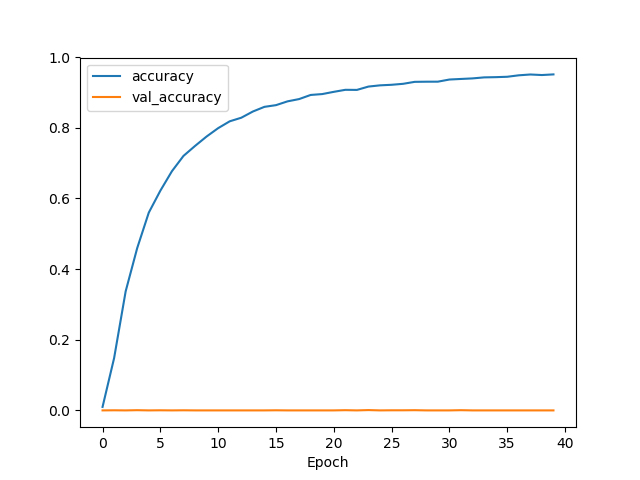
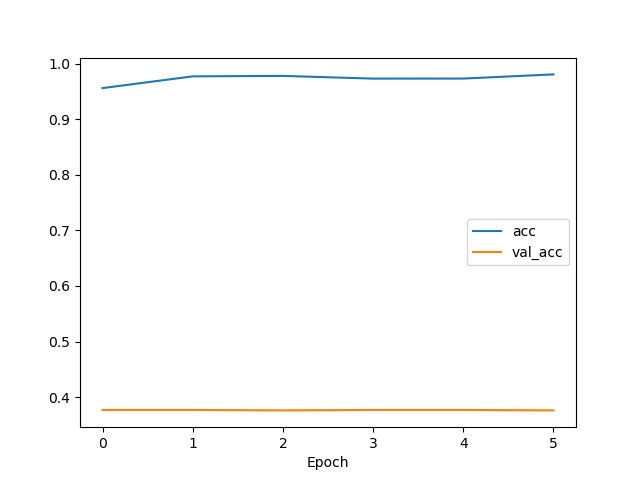
clean

diff --git a/AIModel/training.py b/AIModel/training.py
@@ -15,17 +15,18 @@ from keras.callbacks import EarlyStopping, ModelCheckpoint
 
 IMAGES_PATH = "../data/training/images/"
 AUGMENTATION_PATH = "../data/training/augmentation-images/"
-MODEL_VGG16 = "../data/training/model_vgg16.h5"
-HISTORY_VGG16 = "../data/training/model_vgg16_history"
-BOTTLENECK_VGG16 = "../data/training/bottleneck_vgg16.npy"
-CHECKPOINT_FILE = "../data/training/vgg16_checkpoint.h5"
+MODEL_VGG16 = "../data/training/model_vgg16_1.h5"
+HISTORY_VGG16 = "../data/training/model_vgg16_history_1"
+FC_HISTORY = "../data/training/fc_hist"
+BOTTLENECK_VGG16 = "../data/training/bottleneck_vgg16_1.npy"
+CHECKPOINT_FILE = "../data/training/vgg16_checkpoint_1.h5"
 CSV_RESTAURANTS = "../data/training/restaurants.csv"
-X_TRAIN_FILE = "../data/training/x_train.npy"
-Y_TRAIN_FILE = "../data/training/y_train.npy"
+X_TRAIN_FILE = "../data/training/x_train_1.npy"
+Y_TRAIN_FILE = "../data/training/y_train_1.npy"
 
-IMG_HEIGHT = 224 #320 #640
-IMG_WIDTH = 224 #160 #320
-MAX_IMAGES = 160
+IMG_HEIGHT = 112 #224 #320 #640
+IMG_WIDTH = 112 #224 #160 #320
+MAX_IMAGES = 800
 BATCH_SIZE = 16
 EPOCHS = 20
 
@@ -109,19 +110,11 @@ def getNumberOfRestaurants():
   return len(restaurantsIds)
 
 def create_training_data():
-  # restaurantspd = pd.read_csv(CSV_RESTAURANTS)
-  # restaurantspd = restaurantspd.reset_index()
-  # restaurantspd['Id'] = pd.to_numeric(restaurantspd['Id'], downcast='integer')
-  # restaurantspd['Label'] = restaurantspd['Id'].astype('category')
-  # restaurantspd = restaurantspd.set_index('Id')
-  # restaurantsDict = restaurantspd.to_dict()
-  # restaurantsLabels = restaurantsDict['Label']
   TOTAL_IMAGES = getTotalNumberofImages()
   restaurantsIds = [folder[1] for folder in os.walk(AUGMENTATION_PATH)]
   restaurantsIds = restaurantsIds[0]
   labelDict = {}
   print (TOTAL_IMAGES)
-  # totalInstances = len(restaurantsIds) * MAX_IMAGES
   x_train = np.ndarray((TOTAL_IMAGES, IMG_HEIGHT, IMG_WIDTH, 3), dtype=np.float32)
   y_train = np.ndarray((TOTAL_IMAGES, ), dtype=np.uint8)
   i = 0
@@ -144,21 +137,22 @@ def create_training_data():
   np.save(X_TRAIN_FILE, x_train)
   np.save(Y_TRAIN_FILE, y_train)
 
+def preprocess_numpy_images(x_train):
+  mean = np.mean(x_train, axis=0)
+  std = np.std(x_train, axis=0)
+  x_train -= mean
+  x_train /= std
+  return x_train
+
 def train_vgg16_new(runBottleneck, runFC, runFinalModel):
   """
   Avoid random weights initialisation
   """
   # Get the data
   print ("Get the data---------------------------")
-  # datagen = ImageDataGenerator()
-  # generator = datagen.flow_from_directory(AUGMENTATION_PATH, target_size=(IMG_HEIGHT, IMG_WIDTH), batch_size=TOTAL_IMAGES, class_mode='categorical', subset='training')
-  # validationGenerator = datagen.flow_from_directory(AUGMENTATION_PATH, target_size=(IMG_HEIGHT, IMG_WIDTH), batch_size=BATCH_SIZE, class_mode='categorical', subset='validation')
-  # NUM_CLASSES = len(generator.class_indices)
-  # y_train = to_categorical(trainGenerator.classes, num_classes=NUM_CLASSES)
-  # TRAIN_LEN = len(trainGenerator)
-  # VALIDATION_LEN = len(validationGenerator)
   NUM_CLASSES = getNumberOfRestaurants()
   x_train = np.load(X_TRAIN_FILE)
+  x_train = preprocess_numpy_images(x_train)
   y_train = to_categorical(np.load(Y_TRAIN_FILE), num_classes=NUM_CLASSES)
   print (x_train.shape)
   print (y_train.shape)
@@ -166,7 +160,6 @@ def train_vgg16_new(runBottleneck, runFC, runFinalModel):
   print ("Get bottleneck output-----------------------------")
   if runBottleneck:
     vgg16Model = applications.VGG16(include_top=False,weights='imagenet')
-    # bottleneck_features = vgg16Model.predict_generator(trainGenerator, steps=TRAIN_LEN // BATCH_SIZE, verbose=2)
     bottleneck_features = vgg16Model.predict(x_train, batch_size=BATCH_SIZE, verbose=2)
     np.save(BOTTLENECK_VGG16, bottleneck_features)
   else:
@@ -183,10 +176,10 @@ def train_vgg16_new(runBottleneck, runFC, runFinalModel):
     model.add(Dense(NUM_CLASSES, activation = 'softmax'))
     model.compile(optimizer='adam', loss='categorical_crossentropy', metrics=['accuracy'])
     checkpoint = ModelCheckpoint(CHECKPOINT_FILE, monitor='val_acc', verbose=1, save_best_only=True, mode='max')
-    # early_stopping = EarlyStopping(monitor='val_acc', patience=6)
+    early_stopping = EarlyStopping(monitor='val_acc', patience=5)
     hist = model.fit(bottleneck_features, y_train, epochs=EPOCHS, validation_split=0.1, \
-              batch_size=BATCH_SIZE, callbacks=[checkpoint], verbose=2)
-    historyFile = open("../data/training/fc_hist", 'wb')
+              batch_size=BATCH_SIZE, callbacks=[checkpoint, early_stopping], verbose=2)
+    historyFile = open(FC_HISTORY, 'wb')
     pickle.dump(hist.history, historyFile)
     historyFile.close()
 
@@ -205,10 +198,9 @@ def train_vgg16_new(runBottleneck, runFC, runFinalModel):
       layer.trainable = False
     # early_stopping = EarlyStopping(monitor='val_acc', patience=4)
     finalModel.compile(optimizer='adam', loss='categorical_crossentropy', metrics=['accuracy']) 
-    # hist = finalModel.fit_generator(trainGenerator, epochs=EPOCHS, validation_data=validationGenerator, callbacks=[early_stopping], \
-                                # steps_per_epoch=TRAIN_LEN // BATCH_SIZE, validation_steps=VALIDATION_LEN // BATCH_SIZE, verbose=2)
-    hist = finalModel.fit(x_train, y_train, epochs=EPOCHS, validation_split=0.2, \
-              batch_size=BATCH_SIZE, verbose=2)
+    early_stopping = EarlyStopping(monitor='val_acc', patience=5)    
+    hist = finalModel.fit(x_train, y_train, epochs=EPOCHS, validation_split=0.1, \
+              batch_size=BATCH_SIZE, verbose=2, callbacks=[early_stopping])
     historyFile = open(HISTORY_VGG16, 'wb')
     pickle.dump(hist.history, historyFile)
     historyFile.close()

diff --git a/AIModel/validation.py b/AIModel/validation.py
@@ -2,19 +2,19 @@ import pickle
 import numpy as np 
 import matplotlib.pyplot as plt
 
-HISTORY_FILE = "../data/training/bottleneck_model_history"
+HISTORY_FILE = "../data/training/fc_hist"
 EVALUATION_FOLDER = "evaluation/"
 
 def read_history():
   output = open(HISTORY_FILE, 'rb')
   history = pickle.load(output)
-  epoches = np.arange(len(history['accuracy']))
-  accuracy = history['accuracy']
-  valAcc = history['val_accuracy']
+  epoches = np.arange(len(history['acc']))
+  accuracy = history['acc']
+  valAcc = history['val_acc']
   plt.xlabel("Epoch")
   plt.plot(epoches, accuracy)
   plt.plot(epoches, valAcc)
-  plt.legend(["accuracy", "val_accuracy"])
+  plt.legend(["acc", "val_acc"])
   plt.savefig(EVALUATION_FOLDER + "accuracy.png")
 
 if __name__ == "__main__":
